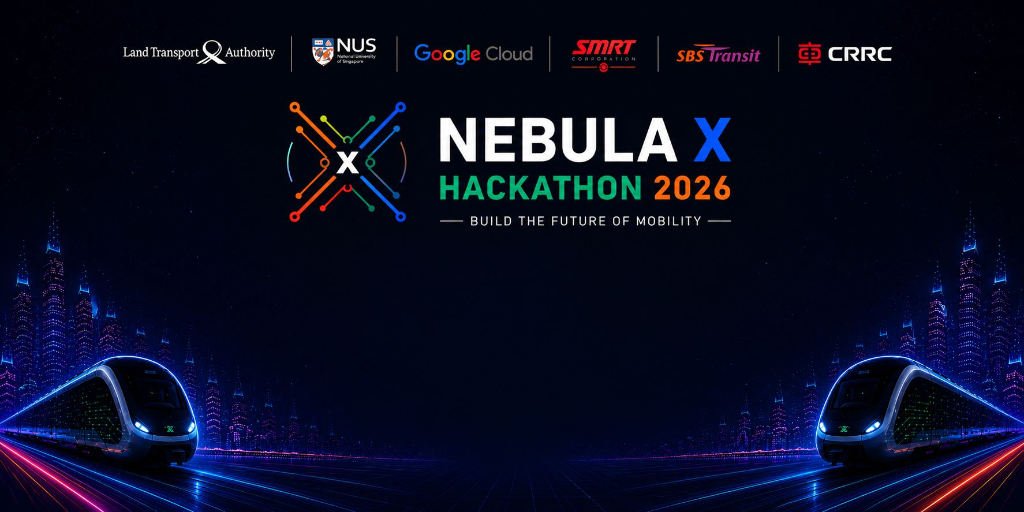
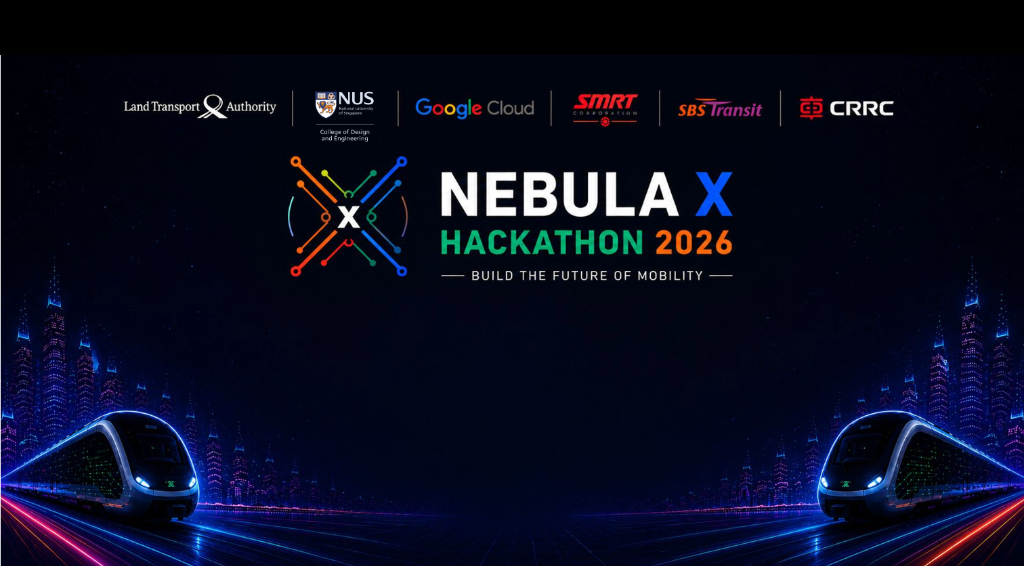
Update background artwork and re-align launch button
New background image has a different aspect ratio (1024x566) and
includes the NUS College of Design and Engineering credit. Recalibrated
the letterbox math and button anchor point to match.

Generated with [Devin](https://devin.ai)

diff --git a/script.js b/script.js
@@ -74,9 +74,9 @@
   // trains in the background artwork, regardless of viewport aspect ratio
   // (the image is shown with object-fit: contain, so it may be letterboxed).
   // ---------------------------------------------------------------------
-  const BG_IMAGE_ASPECT = 1024 / 512;
+  const BG_IMAGE_ASPECT = 1024 / 566;
   const BUTTON_X_PCT = 0.5;   // horizontal center of the image
-  const BUTTON_Y_PCT = 0.83;  // vertical position within the image, between the trains
+  const BUTTON_Y_PCT = 0.75;  // vertical position within the image, between the trains
 
   function positionLaunchButton() {
     const stage = document.getElementById('stage');
